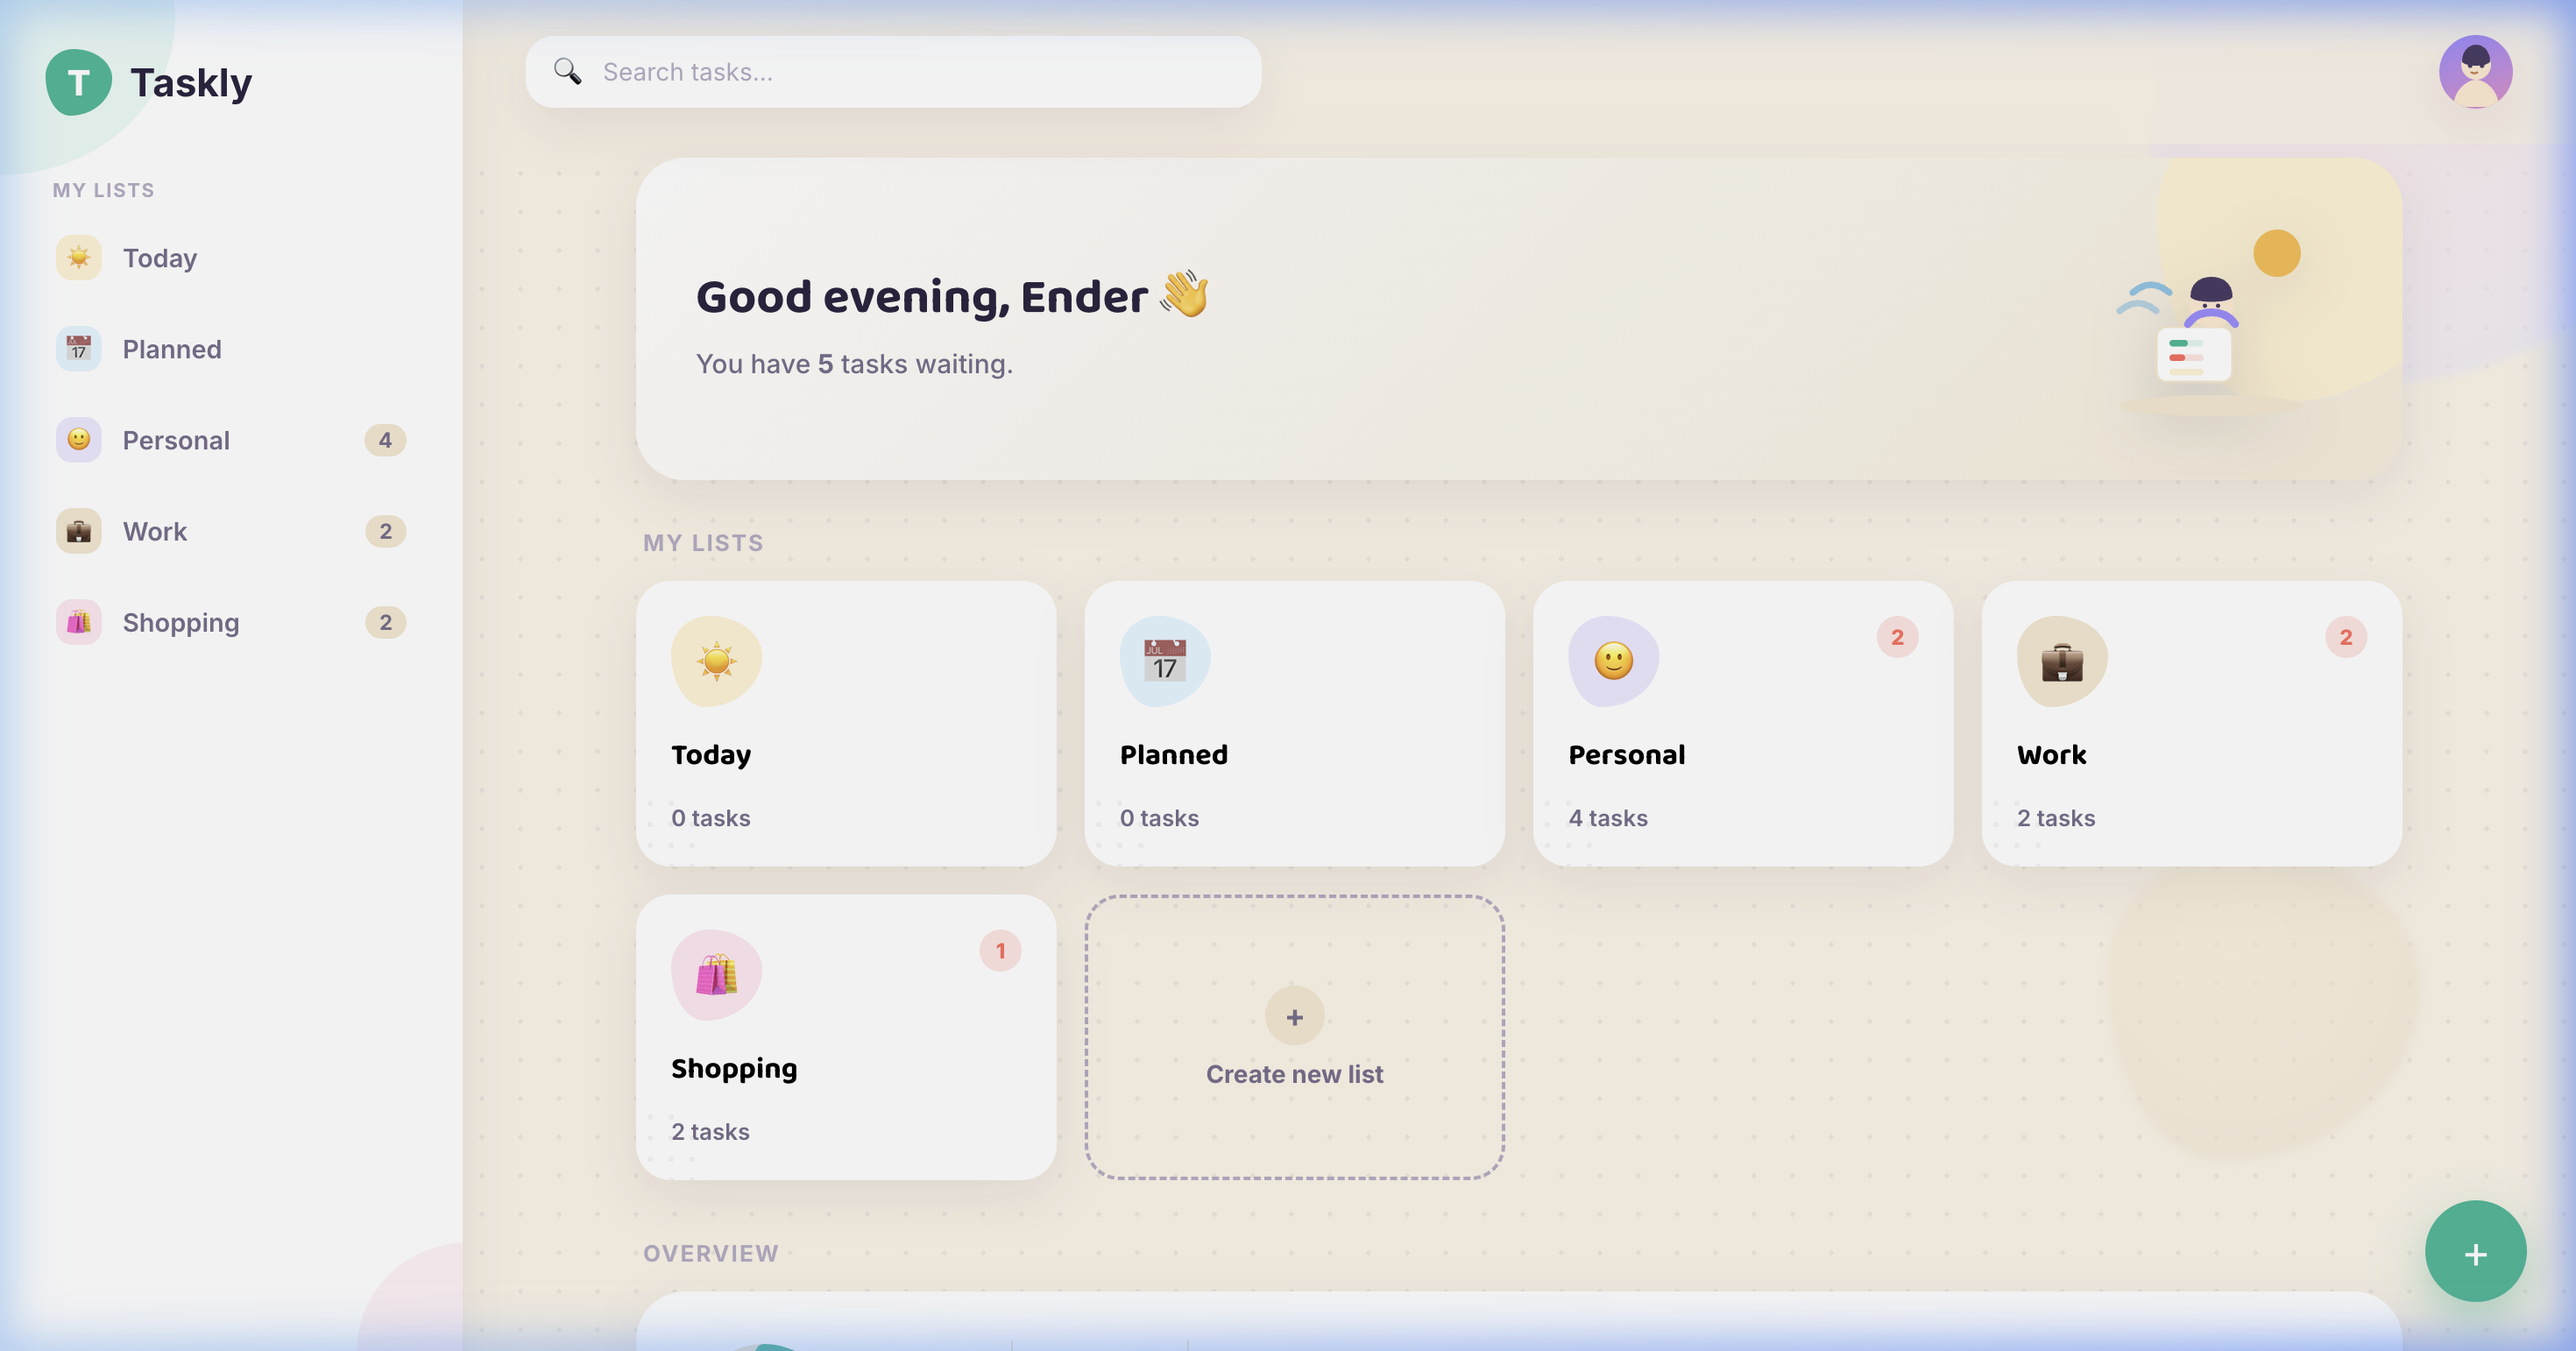
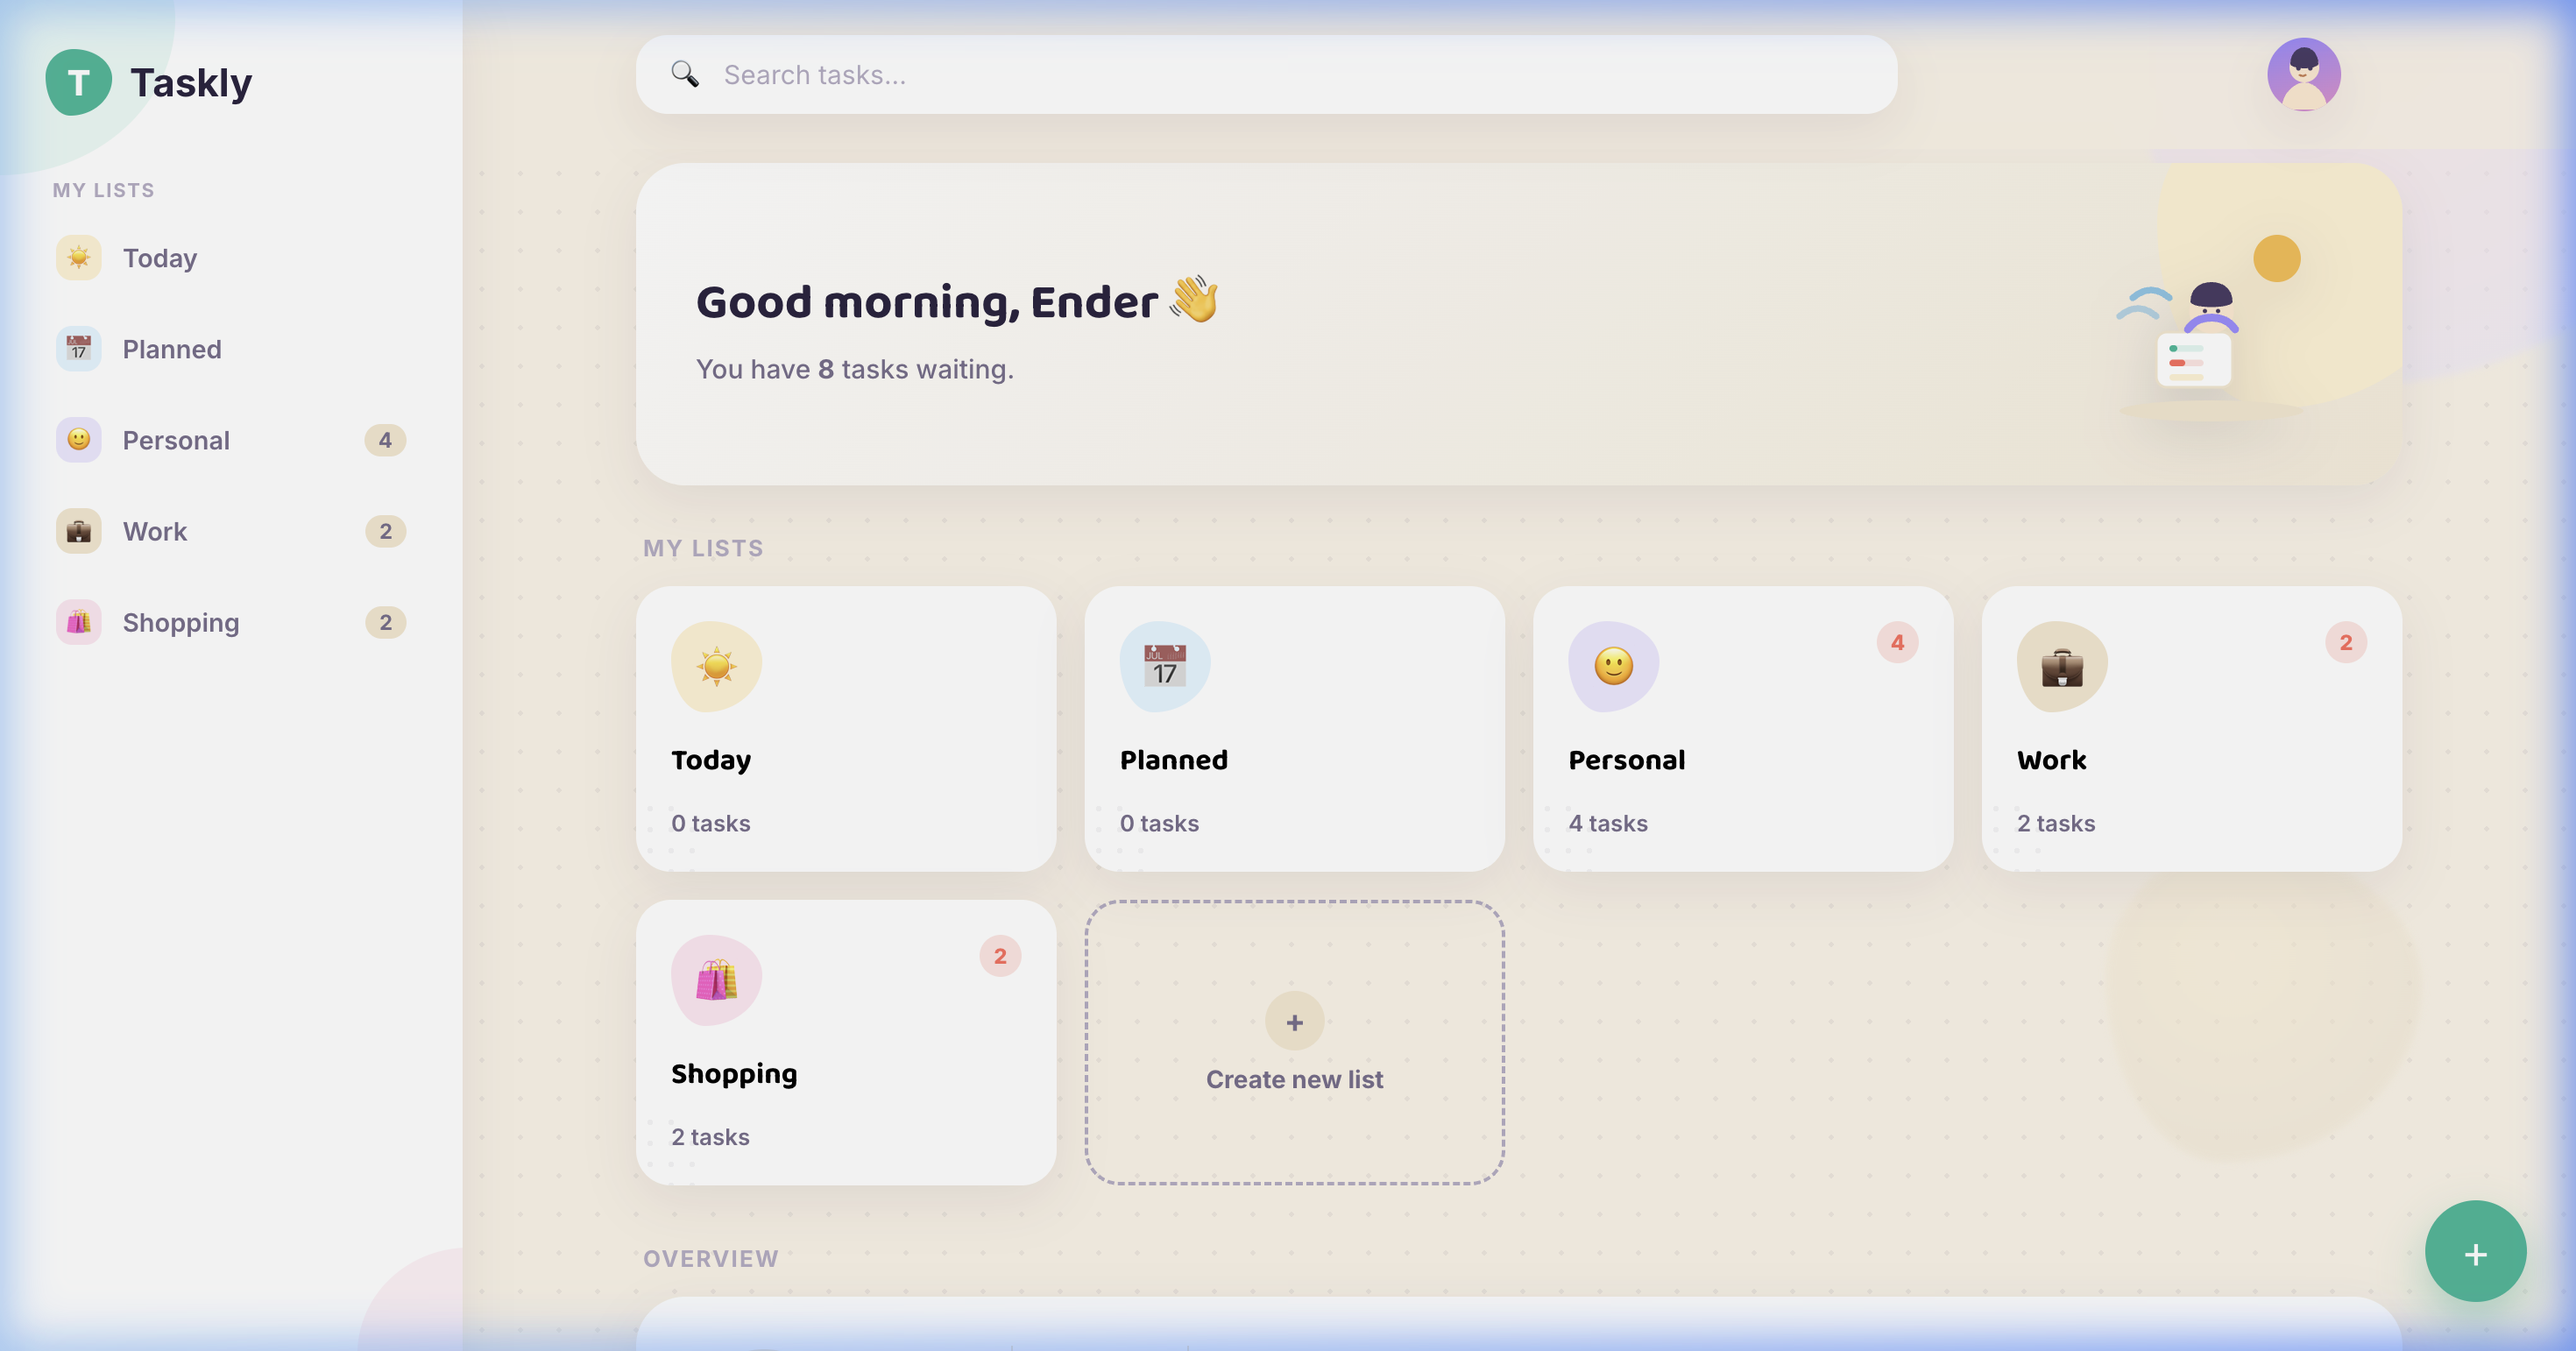
style: expand search bar horizontally across topbar

diff --git a/index.html b/index.html
@@ -148,13 +148,16 @@
     padding:0 36px;max-width:1080px;width:100%;margin:0 auto;
   }
   .search{
-    flex:1;max-width:420px;display:flex;align-items:center;gap:10px;
-    background:var(--white);border-radius:16px;padding:10px 16px;
-    box-shadow:var(--shadow-soft);
+    flex:1;max-width:720px;display:flex;align-items:center;gap:12px;
+    background:var(--white);border-radius:18px;padding:12px 20px;
+    box-shadow:var(--shadow-soft);transition:max-width .2s, box-shadow .2s;
   }
-  .search input{border:none;outline:none;background:none;font-size:14px;width:100%;color:var(--ink);}
+  .search:focus-within{
+    box-shadow:var(--shadow-pop);
+  }
+  .search input{border:none;outline:none;background:none;font-size:15px;width:100%;color:var(--ink);}
   .search input::placeholder{color:var(--ink-faint);}
-  .topbar .spacer{flex:1;}
+  .topbar .spacer{flex:0.2;}
   .avatar{
     width:42px;height:42px;border-radius:50%;
     background:linear-gradient(160deg, var(--lilac) 0%, var(--pink) 130%);

diff --git a/taskly-revamp (1).html b/taskly-revamp (1).html
@@ -148,13 +148,16 @@
     padding:0 36px;max-width:1080px;width:100%;margin:0 auto;
   }
   .search{
-    flex:1;max-width:420px;display:flex;align-items:center;gap:10px;
-    background:var(--white);border-radius:16px;padding:10px 16px;
-    box-shadow:var(--shadow-soft);
+    flex:1;max-width:720px;display:flex;align-items:center;gap:12px;
+    background:var(--white);border-radius:18px;padding:12px 20px;
+    box-shadow:var(--shadow-soft);transition:max-width .2s, box-shadow .2s;
   }
-  .search input{border:none;outline:none;background:none;font-size:14px;width:100%;color:var(--ink);}
+  .search:focus-within{
+    box-shadow:var(--shadow-pop);
+  }
+  .search input{border:none;outline:none;background:none;font-size:15px;width:100%;color:var(--ink);}
   .search input::placeholder{color:var(--ink-faint);}
-  .topbar .spacer{flex:1;}
+  .topbar .spacer{flex:0.2;}
   .avatar{
     width:42px;height:42px;border-radius:50%;
     background:linear-gradient(160deg, var(--lilac) 0%, var(--pink) 130%);
